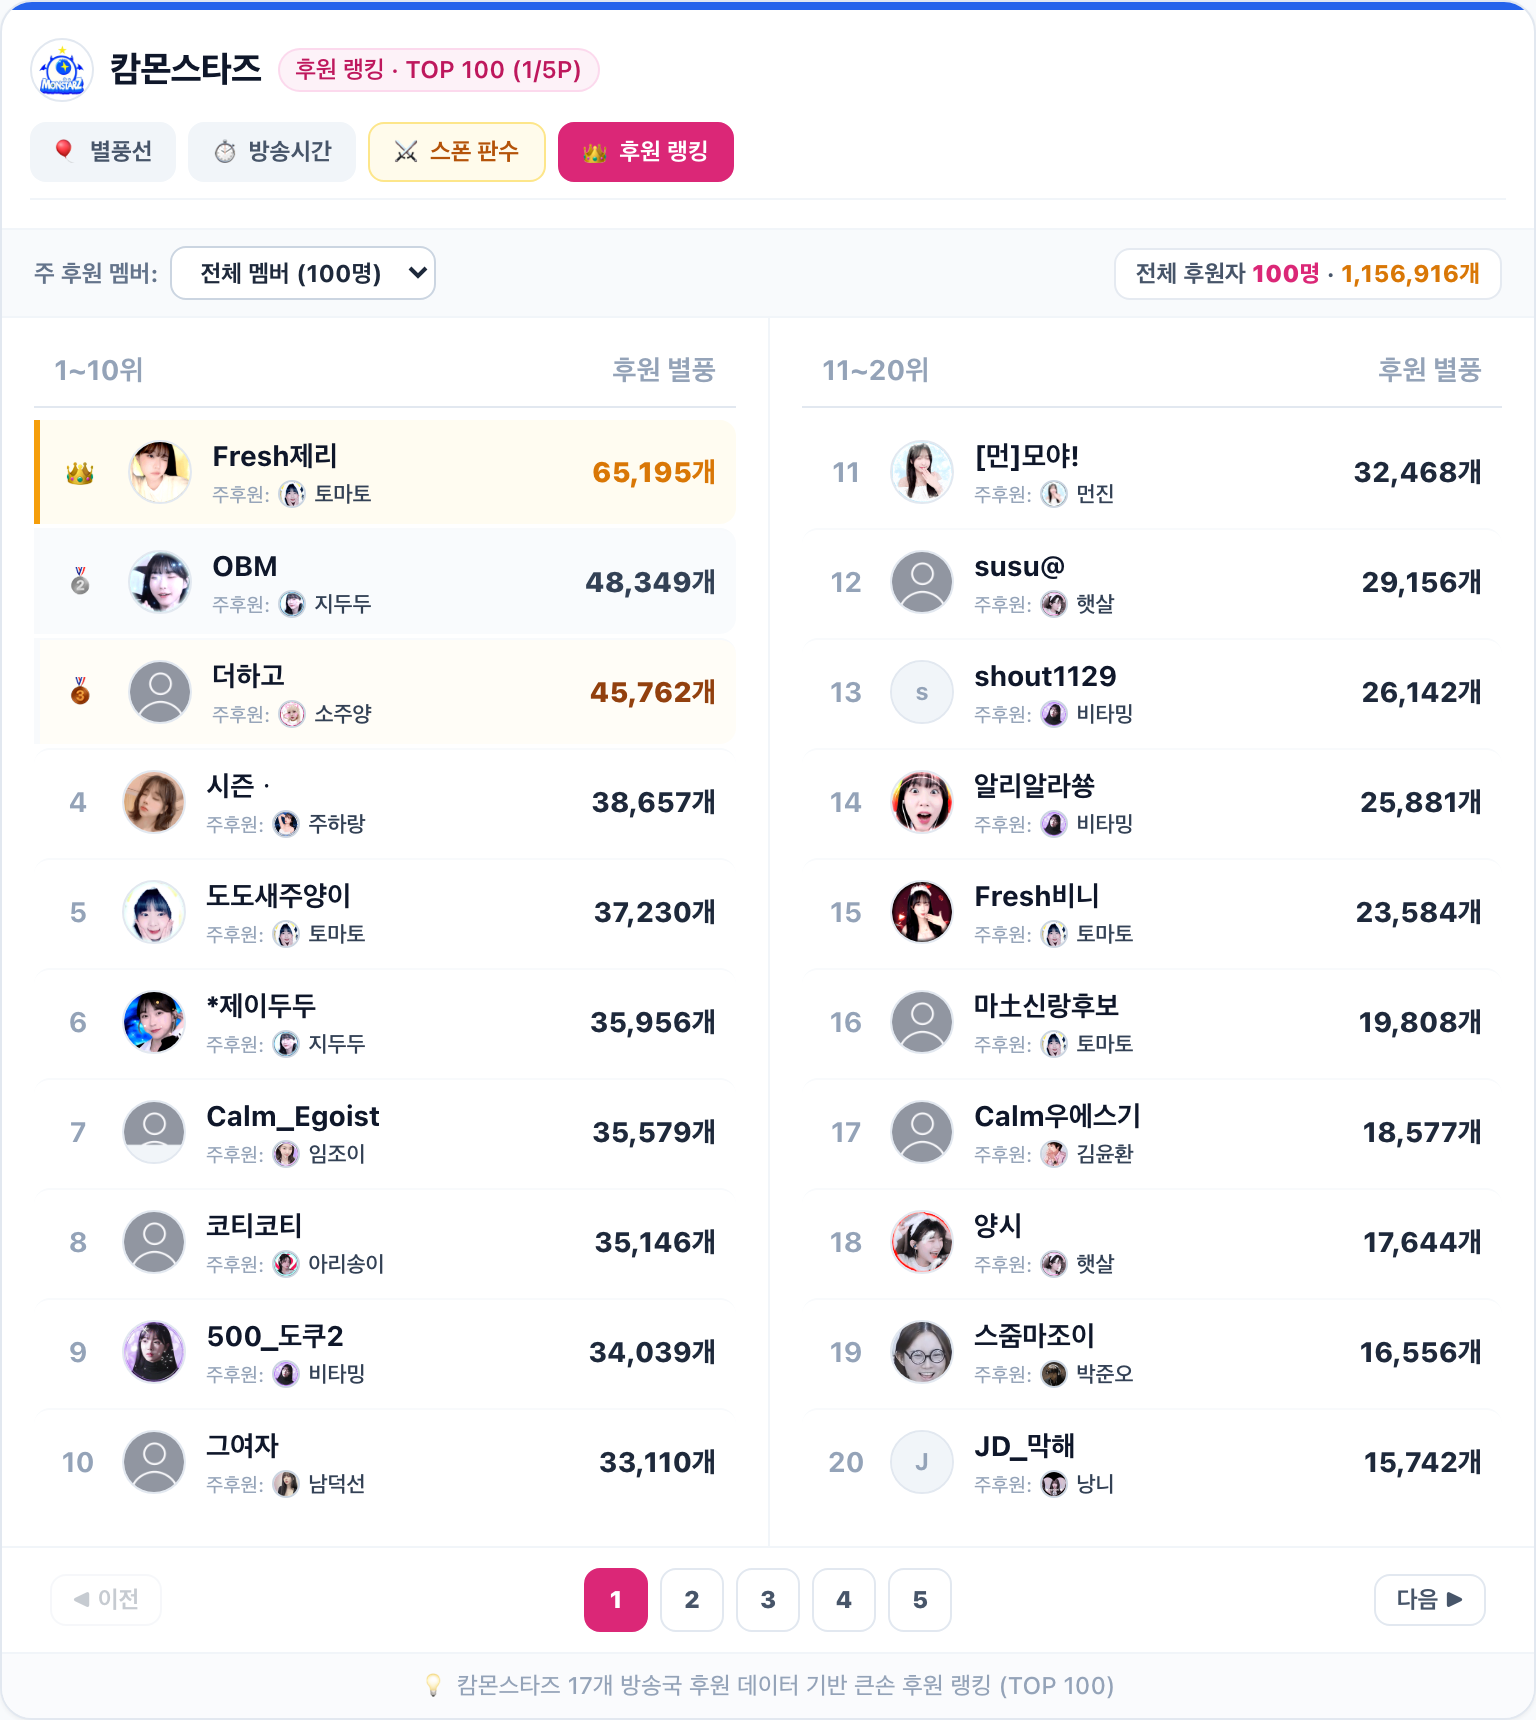
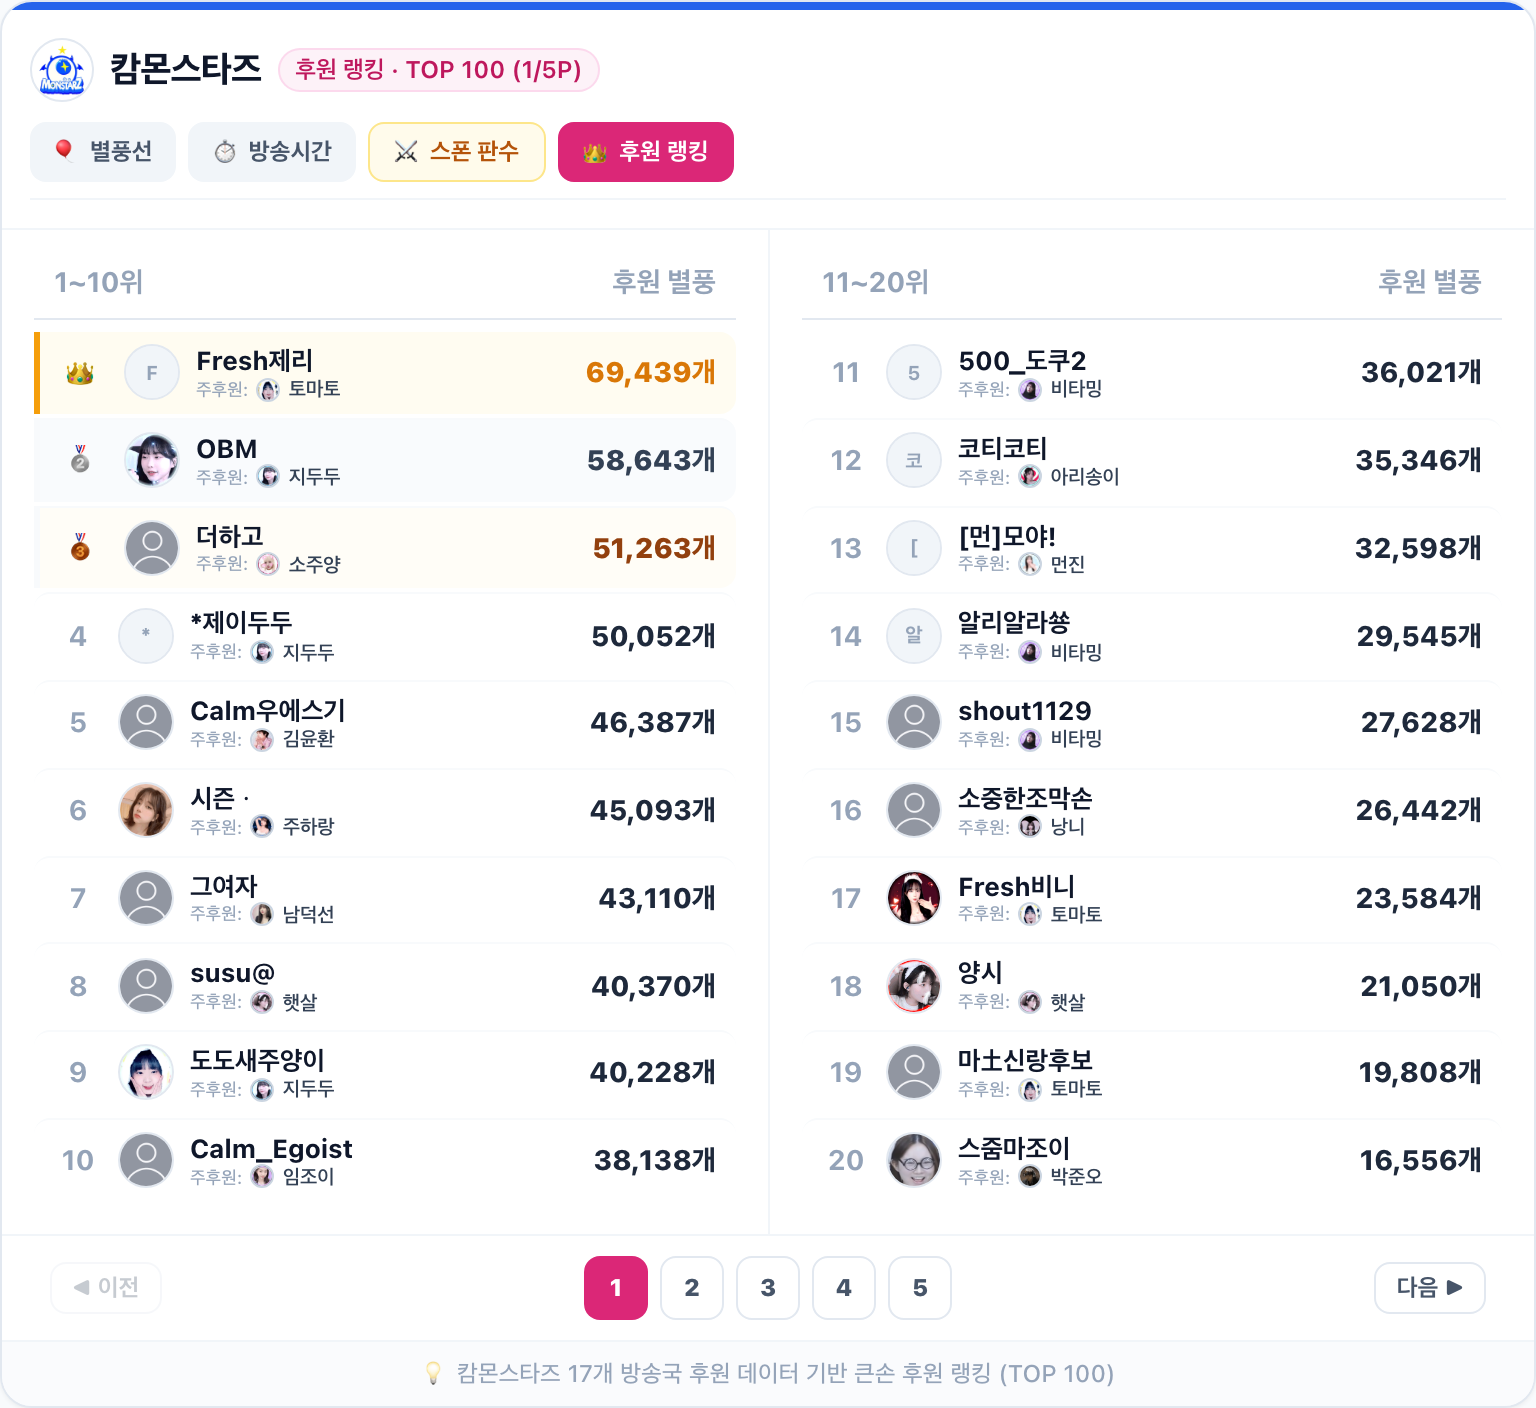
fix(capture): wait for calmmon donor data before taking screenshots

diff --git a/scripts/capture_calmmon_donors.js b/scripts/capture_calmmon_donors.js
@@ -23,15 +23,27 @@ async function captureCalmmonDonors() {
   });
 
   try {
-    await page.goto(targetUrl, { waitUntil: 'domcontentloaded', timeout: 30000 });
+    await page.goto(targetUrl, { waitUntil: 'domcontentloaded', timeout: 35000 });
     const cardLocator = page.locator('div.bg-white.rounded-2xl.shadow-sm.border.border-slate-200').first();
     await cardLocator.waitFor({ state: 'visible', timeout: 20000 });
     await cardLocator.scrollIntoViewIfNeeded();
 
     // 후원 랭킹 탭 선택
     console.log('👑 후원 랭킹 탭 선택...');
-    await page.click('button:has-text("후원 랭킹")');
-    await page.waitForTimeout(600);
+    const donorTabBtn = page.locator('button:has-text("후원 랭킹")').first();
+    await donorTabBtn.waitFor({ state: 'visible', timeout: 10000 });
+    await donorTabBtn.click();
+
+    // 후원자 데이터 렌더링 대기: 빈 데이터 문구가 사라지고 5페이지 버튼이 나타날 때까지 대기
+    console.log('⏳ 후원자 데이터 렌더링 대기 중...');
+    await page.waitForFunction(() => {
+      const text = document.body.innerText;
+      const hasEmptyMsg = text.includes('후원자 데이터가 없습니다.');
+      const pageButtons = Array.from(document.querySelectorAll('button')).map(b => b.innerText.trim());
+      const hasPage5 = pageButtons.includes('5');
+      return !hasEmptyMsg && hasPage5;
+    }, { timeout: 25000 });
+    console.log('✅ 후원자 데이터 렌더링 확인 완료!');
 
     const pages = [
       { pageNum: 1, filename: '01_donor_01_20.png', label: '1~20위' },
@@ -45,10 +57,10 @@ async function captureCalmmonDonors() {
       console.log(`📸 [${p.pageNum}/5] 후원 랭킹 ${p.label} (페이지 ${p.pageNum}) 캡처 중...`);
       // 해당 페이지 번호 버튼 클릭
       const pageBtn = page.locator(`button:text-is("${p.pageNum}")`).first();
-      if (await pageBtn.count() > 0) {
-        await pageBtn.click();
-        await page.waitForTimeout(500);
-      }
+      await pageBtn.waitFor({ state: 'visible', timeout: 10000 });
+      await pageBtn.click();
+      await page.waitForTimeout(400);
+
       const outPath = path.join(outDir, p.filename);
       await cardLocator.screenshot({ path: outPath });
       console.log(`✅ ${p.filename} 저장 완료!`);

diff --git a/src/app/calm/page.tsx b/src/app/calm/page.tsx
@@ -10,6 +10,7 @@ import {
   type CalmmonDonorRow,
 } from '@/lib/calmmonData';
 import { getCurrentMonthDate } from '@/lib/month';
+import calmmonDonors from '@/data/calmmonDonors.json';
 
 // 현재 캄몬 데이터가 유효하게 존재하는 월 목록 (2026-09 아카이브 및 2026-10 현재)
 function getAvailableCalmmonMonths(): string[] {
@@ -41,7 +42,9 @@ export default function CalmmonPage() {
   );
   const [currentTab, setCurrentTab] = useState<CalmmonTabType>('star');
   const [statsMap, setStatsMap] = useState<Map<string, StreamerStatInput>>(new Map());
-  const [donors, setDonors] = useState<CalmmonDonorRow[]>([]);
+  const [donors, setDonors] = useState<CalmmonDonorRow[]>(
+    () => (calmmonDonors as Record<string, CalmmonDonorRow[]>)[availableMonths.includes(currentYearMonth) ? currentYearMonth : availableMonths[availableMonths.length - 1]] || []
+  );
   const [isLoading, setIsLoading] = useState(true);
   const [lastUpdatedText, setLastUpdatedText] = useState('실시간');
 

diff --git a/scripts/capture_calmmon.js b/scripts/capture_calmmon.js
@@ -52,8 +52,13 @@ async function captureCalmmon() {
 
     // 4. 후원 랭킹 탭
     console.log('📸 [4/4] 후원 랭킹 탭 캡처 중...');
-    await page.click('button:has-text("후원 랭킹")');
-    await page.waitForTimeout(600);
+    const donorTabBtn = page.locator('button:has-text("후원 랭킹")').first();
+    await donorTabBtn.waitFor({ state: 'visible', timeout: 10000 });
+    await donorTabBtn.click();
+    await page.waitForFunction(() => {
+      return !document.body.innerText.includes('후원자 데이터가 없습니다.');
+    }, { timeout: 20000 }).catch(() => {});
+    await page.waitForTimeout(400);
     await cardLocator.screenshot({ path: path.join(outDir, '04_calm_donor.png') });
     console.log('✅ 04_calm_donor.png 저장 완료');
 

diff --git a/scripts/ygosu_post.py b/scripts/ygosu_post.py
@@ -198,7 +198,7 @@ def main():
 
             # 파일 첨부 (순서 보장을 위해 4장 순차 업로드)
             if valid_images:
-                print("🖼 캡처 이미지 4장 순차 첨부 중...")
+                print(f"🖼 캡처 이미지 {len(valid_images)}장 순차 첨부 중...")
                 file_input = page.locator("input[type='file'][onchange*='board_file_upload']").first
                 if file_input.count() > 0:
                     for idx, img_path in enumerate(valid_images):
